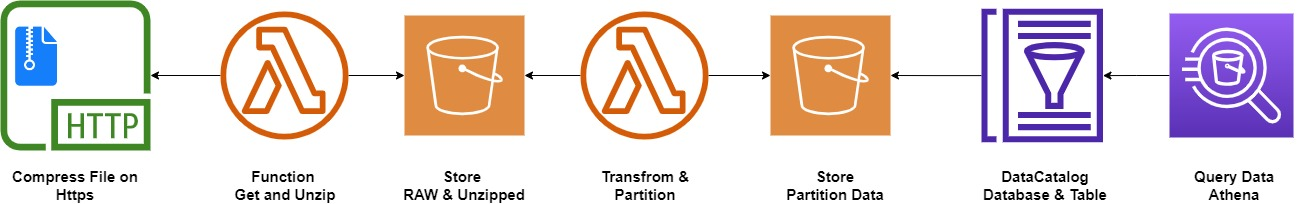
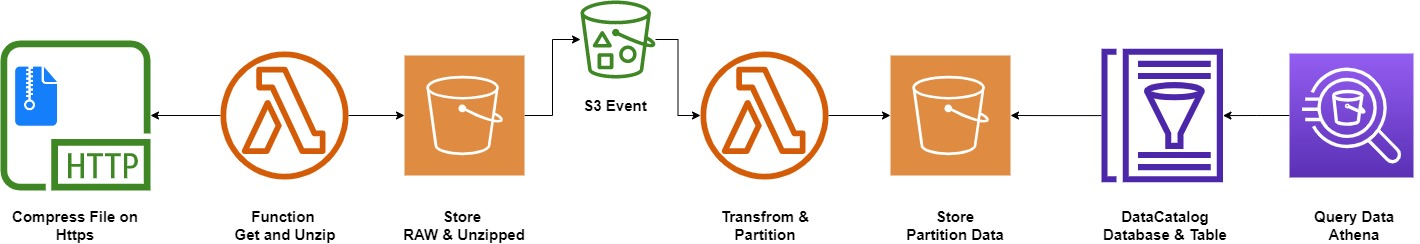
Added event to trigger ETL Lambda and updated Diagram

diff --git a/README.md b/README.md
@@ -14,13 +14,13 @@
 First you need to deploy the CFN
 
 ```bash
-aws cloudformation deploy --template-file dataprocessproject.yaml --stack-name data-proccesing --region us-east-1 --capabilities CAPABILITY_NAMED_IAM
+aws cloudformation deploy --template-file dataprocessproject.yaml --stack-name data-proccesing --region {Region} --capabilities CAPABILITY_NAMED_IAM
 ```
 
-In order to run the cralwer that will create the table to be query with Athena you need to run
+Use this command to execute the first Lambda that will download and extract file, this will trigger process
 
 ```bash
-aws glue start-crawler --name sales-crawler --region us-east-1
+aws lambda invoke --function-name 'dataprocessproject-LambdaRawData' --region {Region} response.json
 ```
 
 When you enter the Athena Service, you need to pick up sales-workgroup, this workgroup is setup with the CFN Templates.
@@ -32,7 +32,7 @@ Then you just need to select:
 - Table : salessales
 
 
-## How would I do it
+## How would I have done it
 
 ![alt Proposal Diagram](images/cfn_proposal.jpg)
 
